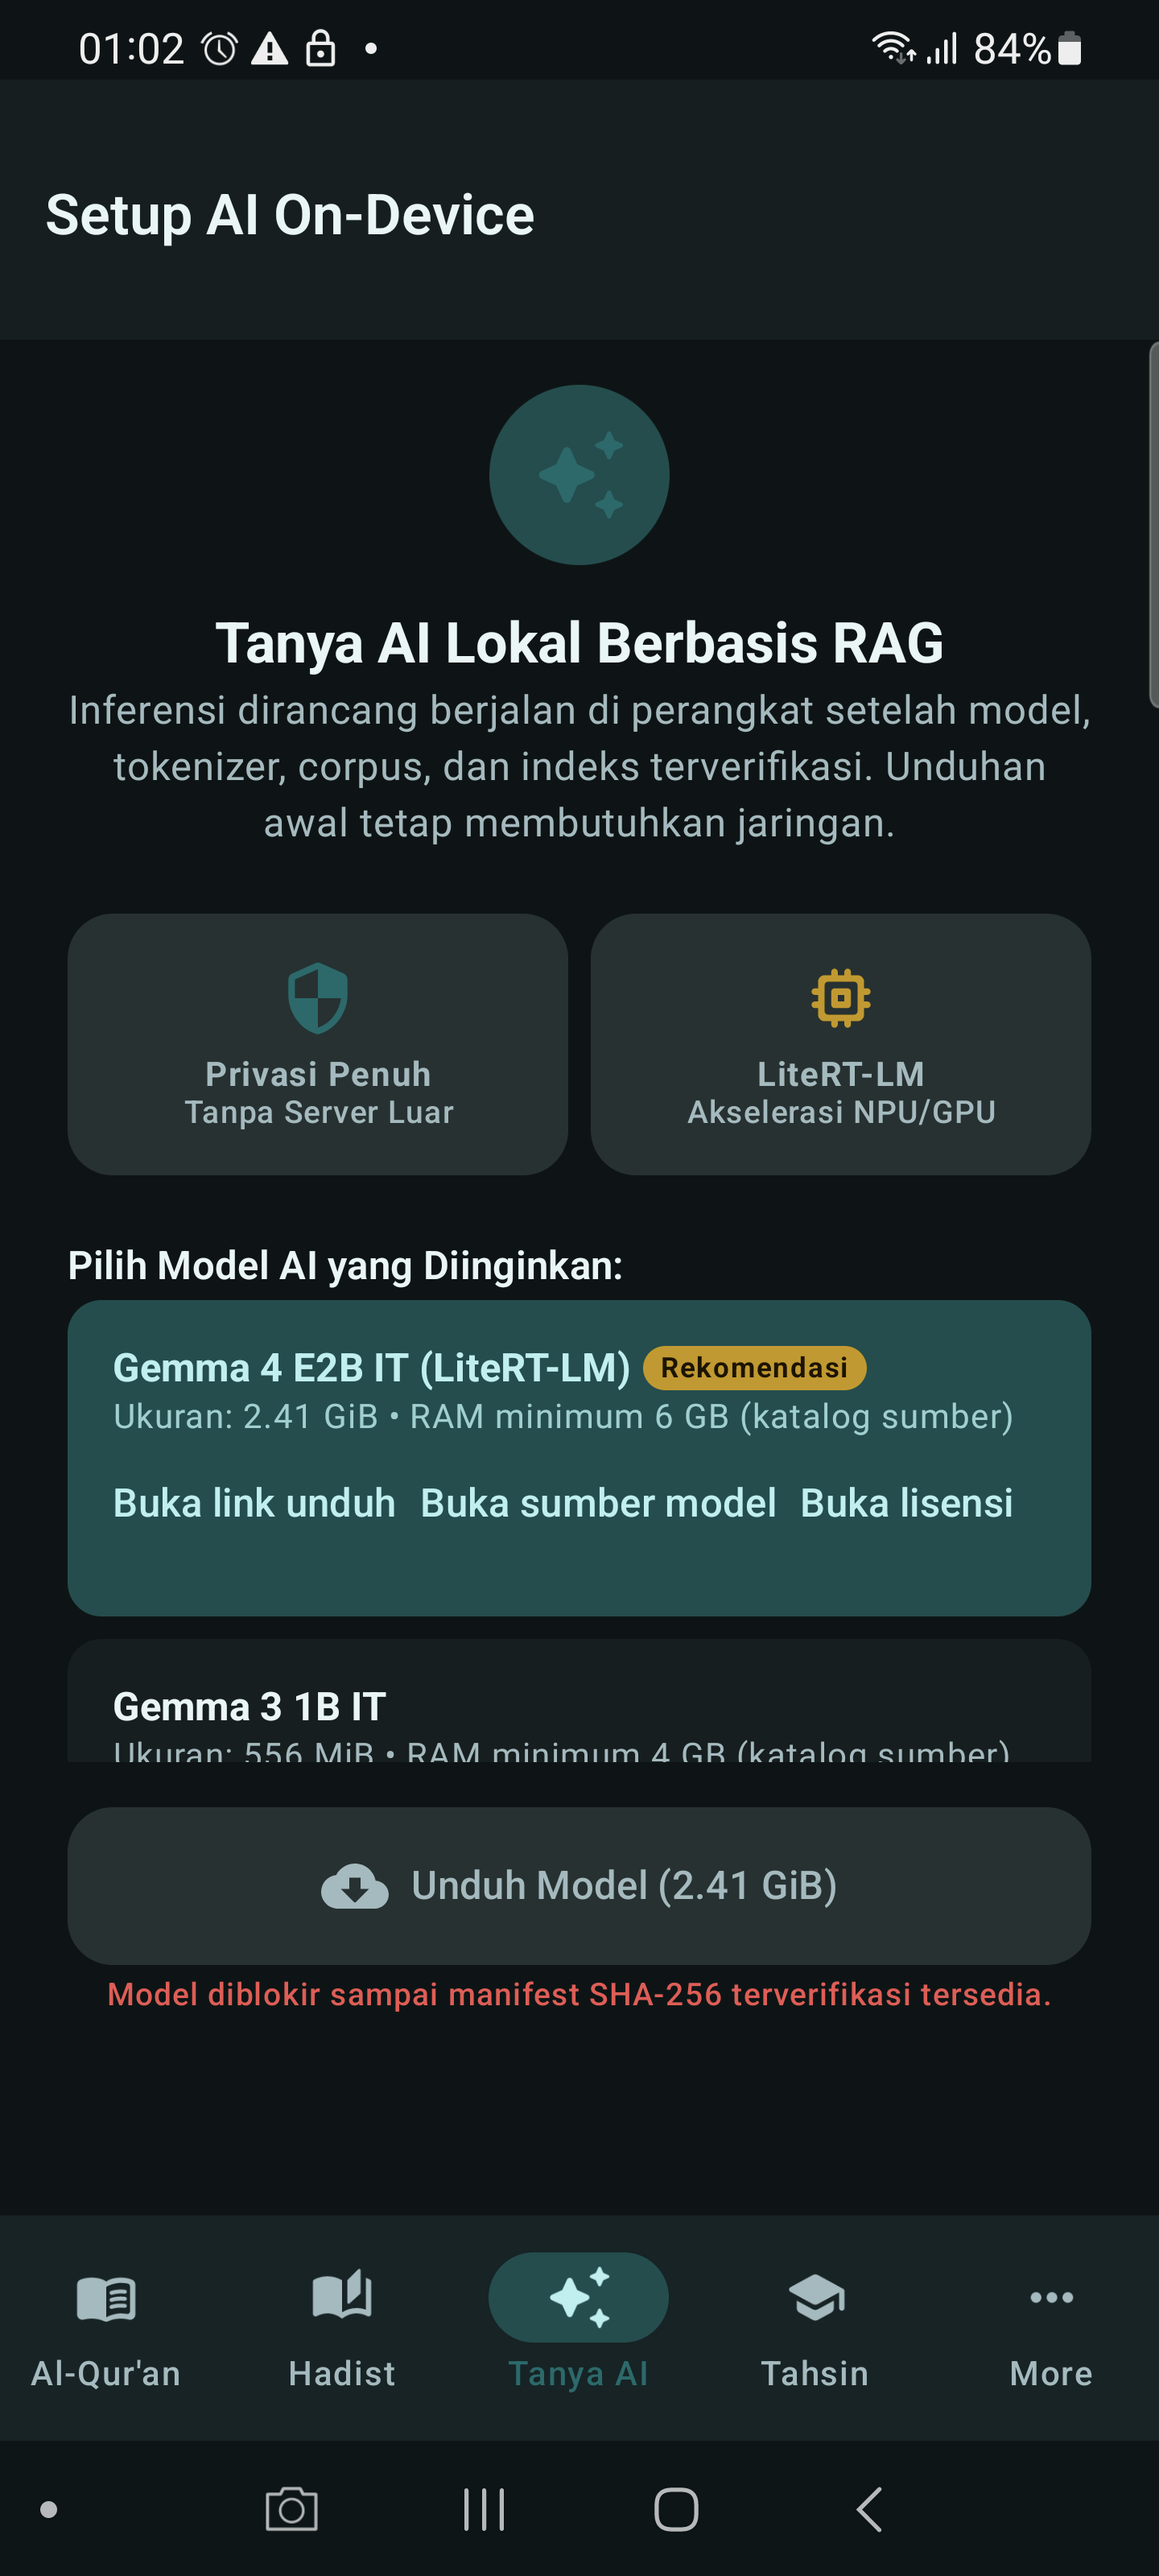
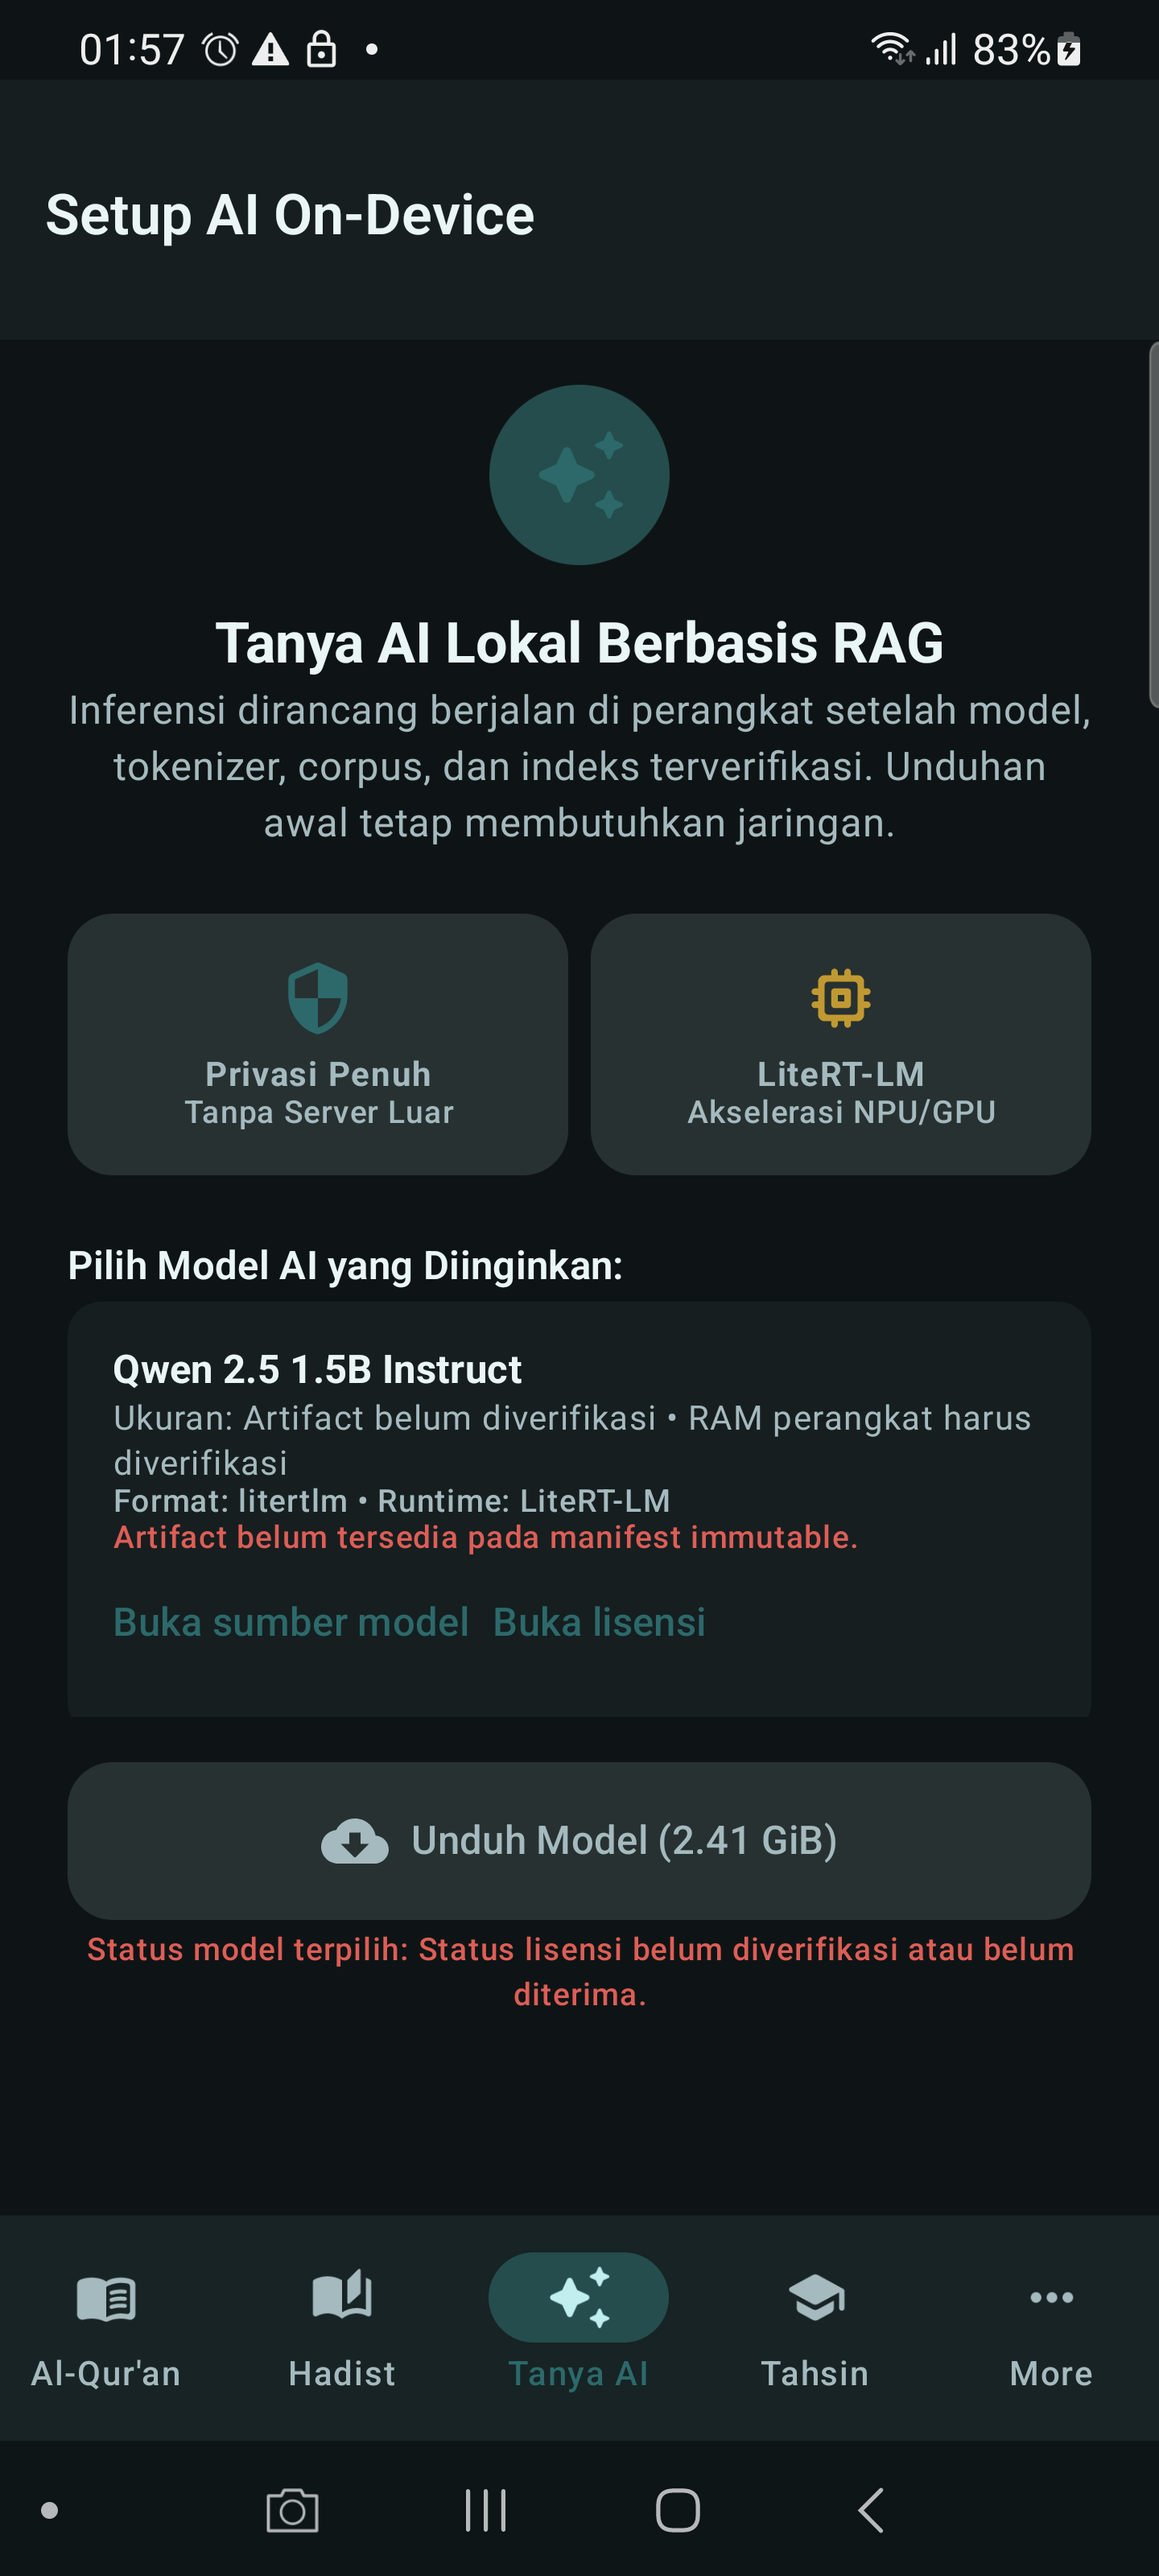
docs: refresh model catalog preview evidence

diff --git a/README.md b/README.md
@@ -57,6 +57,18 @@ QuranPlus/
 
 Working cache internal boleh dibuat ulang setelah uninstall; model dan source RAG yang sudah dipublish tetap berada di folder SAF pengguna. Download memakai WorkManager, network constraint, resume/checksum, retry terbatas, dan tidak melakukan retry otomatis untuk kegagalan konfigurasi/storage.
 
+### Katalog model tambahan
+
+Model tambahan tampil sebagai kandidat source-only sampai format runtime, revision immutable, checksum artifact, tokenizer, ukuran, dan lisensi turunannya direview. Tidak ada kandidat di bawah ini yang otomatis aktif atau boleh diunduh dari aplikasi:
+
+- [Alif Islamic v4 Base](https://huggingface.co/ahmedtamseer3/alif-islamic-v4-base) — artifact `.task` untuk MediaPipe/LiteRT; belum kompatibel dengan loader LiteRT-LM aplikasi.
+- [Qwen2.5 1.5B Instruct LiteRT/GGUF](https://huggingface.co/DuoNeural/Qwen2.5-1.5B-Instruct-LiteRT) — format/runtime community belum tervalidasi untuk LiteRT-LM aplikasi.
+- [Gemma 3 1B IT MNN](https://huggingface.co/darkmaniac7/Gemma-3-1B-IT-MNN) — MNN bukan runtime aplikasi dan profil safety community belum direview.
+- [Qwen3 Embedding 0.6B](https://huggingface.co/Qwen/Qwen3-Embedding-0.6B) — embedding candidate; pipeline saat ini membutuhkan ONNX 384-dimensi, sehingga tidak boleh menggantikan index secara diam-diam.
+- [all-MiniLM-L6-v2](https://huggingface.co/sentence-transformers/all-MiniLM-L6-v2) — kandidat ONNX 384-dimensi; model, tokenizer, asset pendamping, dan checksum belum dipublish ke SAF.
+
+Katalog memisahkan `CHATBOT` dan `EMBEDDING`. Model GGUF, MNN, `.task`, dan embedding tidak pernah dikirim ke `LiteRtLmRunner`; AI tetap blocked sampai `ModelGate` lengkap.
+
 ## Arsitektur
 
 ```text
@@ -89,7 +101,7 @@ Gate terakhir yang lolos:
 - `QSWSEMRKNFZ9LJRC` tidak terhubung pada acceptance run ini, sehingga tidak diklaim lulus pada APK/commit ini;
 - DB runtime setelah upgrade: 6.236 ayat, 77.430 word rows, 17 hadist collection metadata, 0 hadist text;
 - accessibility tree memverifikasi hamburger, bottom-bar five-slot, selected state, marker ``, mu‘anaqah `ۛ`, word selection, dan ModelGate blocker;
[2 lines of base64/hex data omitted]
 
 Landscape, font-scale 200%, TalkBack/IME journey, audio, model lokal nyata, corpus hadist distributable, embedding, dan sqlite-vec index tetap memerlukan acceptance terpisah/prerequisite nyata; tidak diklaim lulus dari run portrait ini.
 
